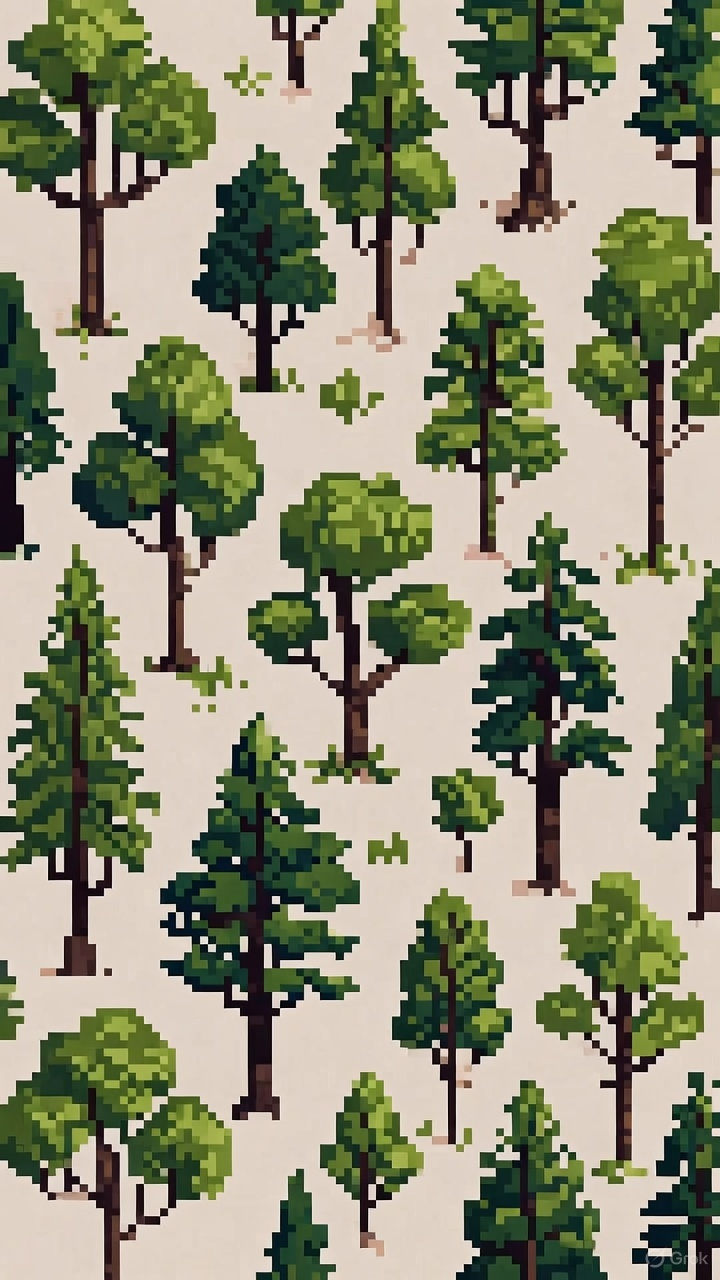
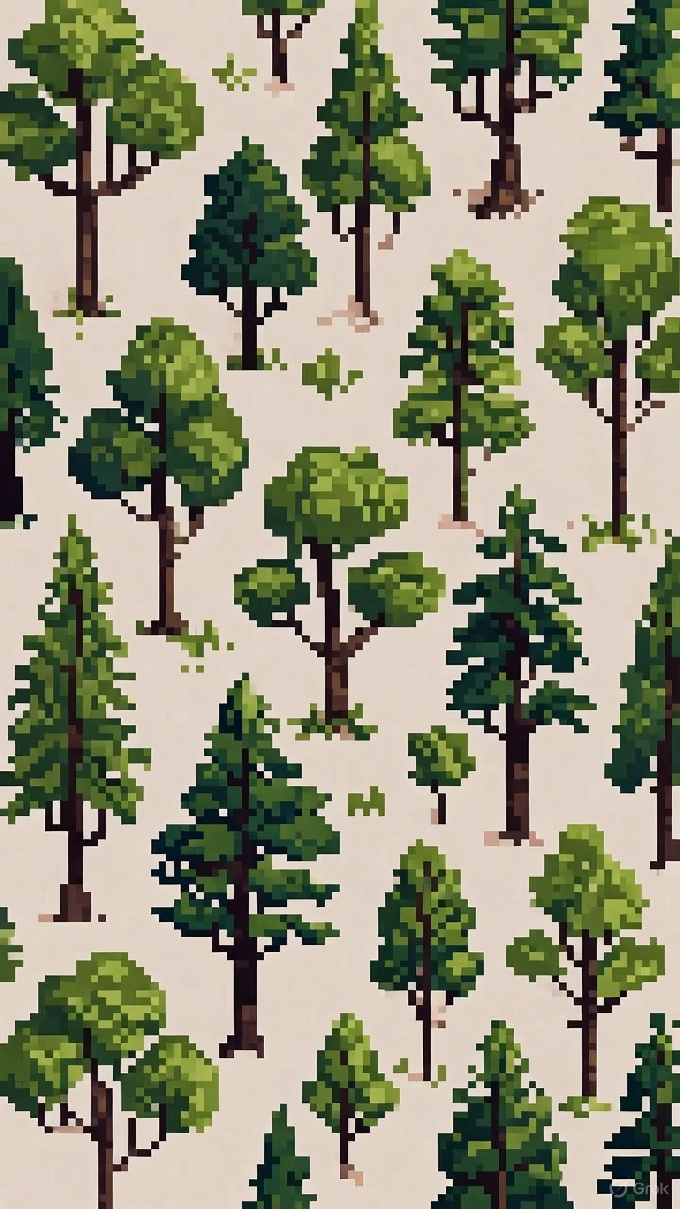
auto-commit for 411a9d33-92b5-44e0-996e-4ed1a5b3a44a

diff --git a/frontend/public/index.html b/frontend/public/index.html
@@ -48,11 +48,12 @@
             height: 100%;
             pointer-events: none;
             z-index: 0;
-            opacity: 1;
+            opacity: 0.15;
             background-image: url('trees-bg.jpg');
             background-size: cover;
             background-position: center;
             background-repeat: no-repeat;
+            filter: brightness(0.8);
         }
         
         /* Dark overlay for trees */
@@ -64,7 +65,7 @@
             height: 100%;
             pointer-events: none;
             z-index: 0;
-            background: linear-gradient(180deg, rgba(6, 6, 6, 0.20) 0%, rgba(10, 10, 10, 0.25) 50%, rgba(6, 6, 6, 0.30) 100%);
+            background: linear-gradient(180deg, rgba(15, 15, 15, 0.75) 0%, rgba(15, 15, 15, 0.80) 50%, rgba(15, 15, 15, 0.85) 100%);
         }
         
         /* Subtle gradient overlay */
